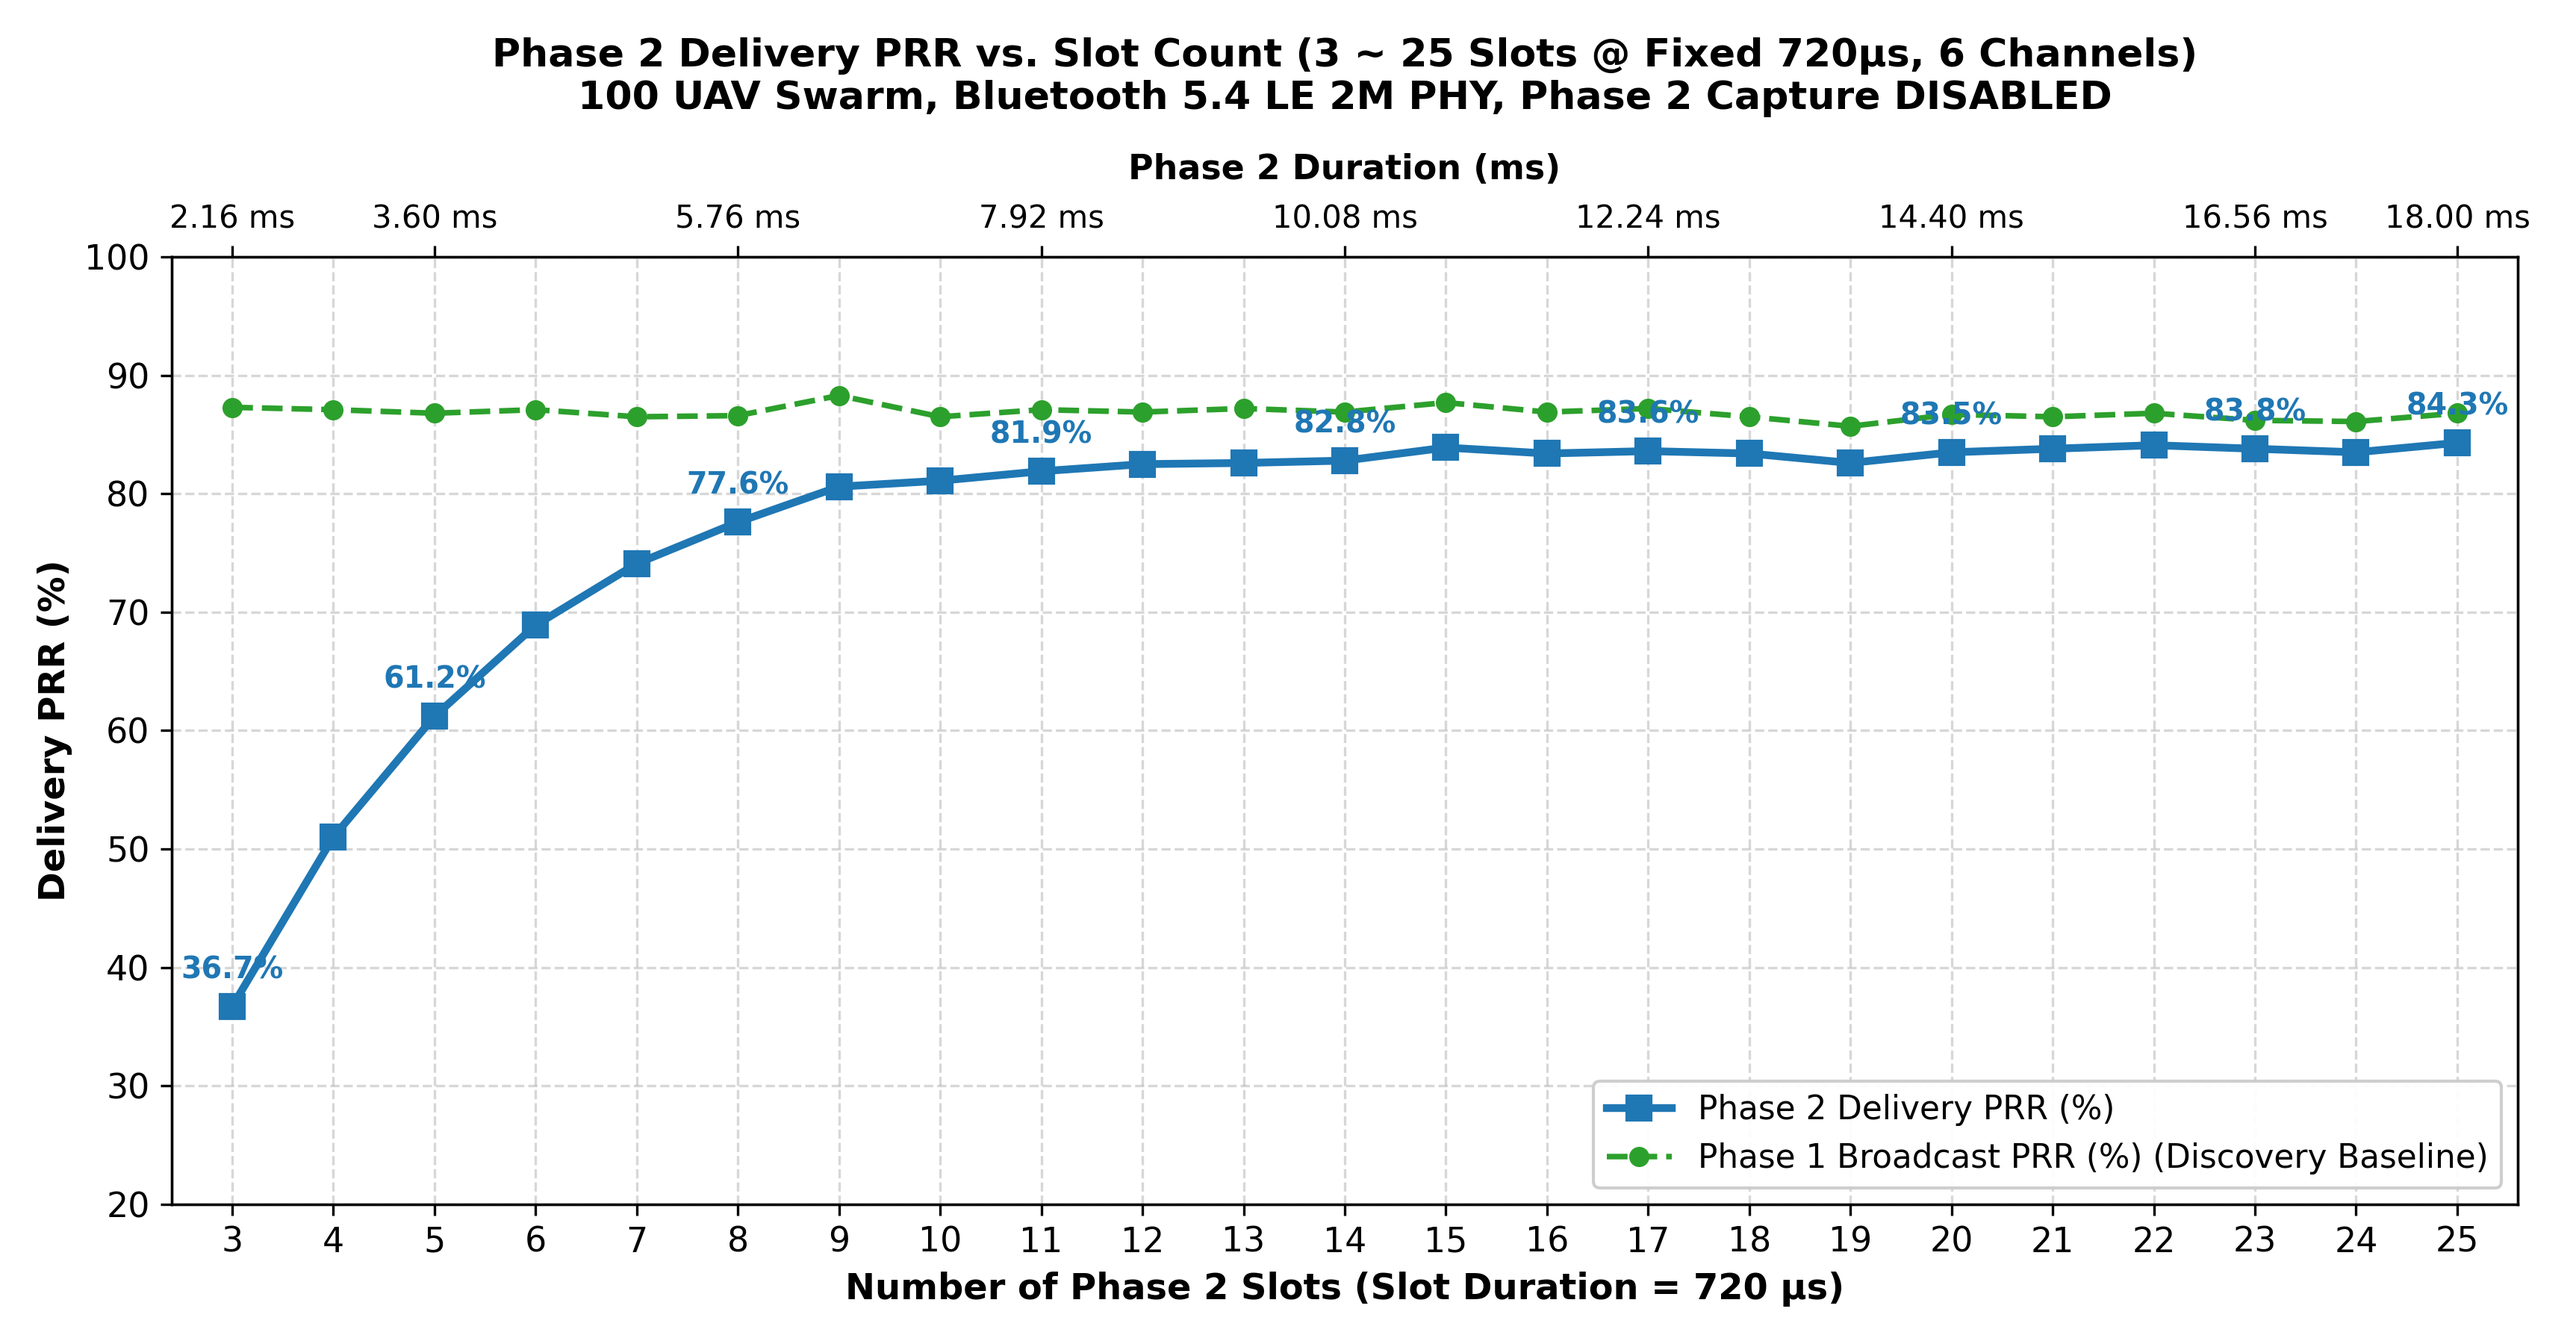
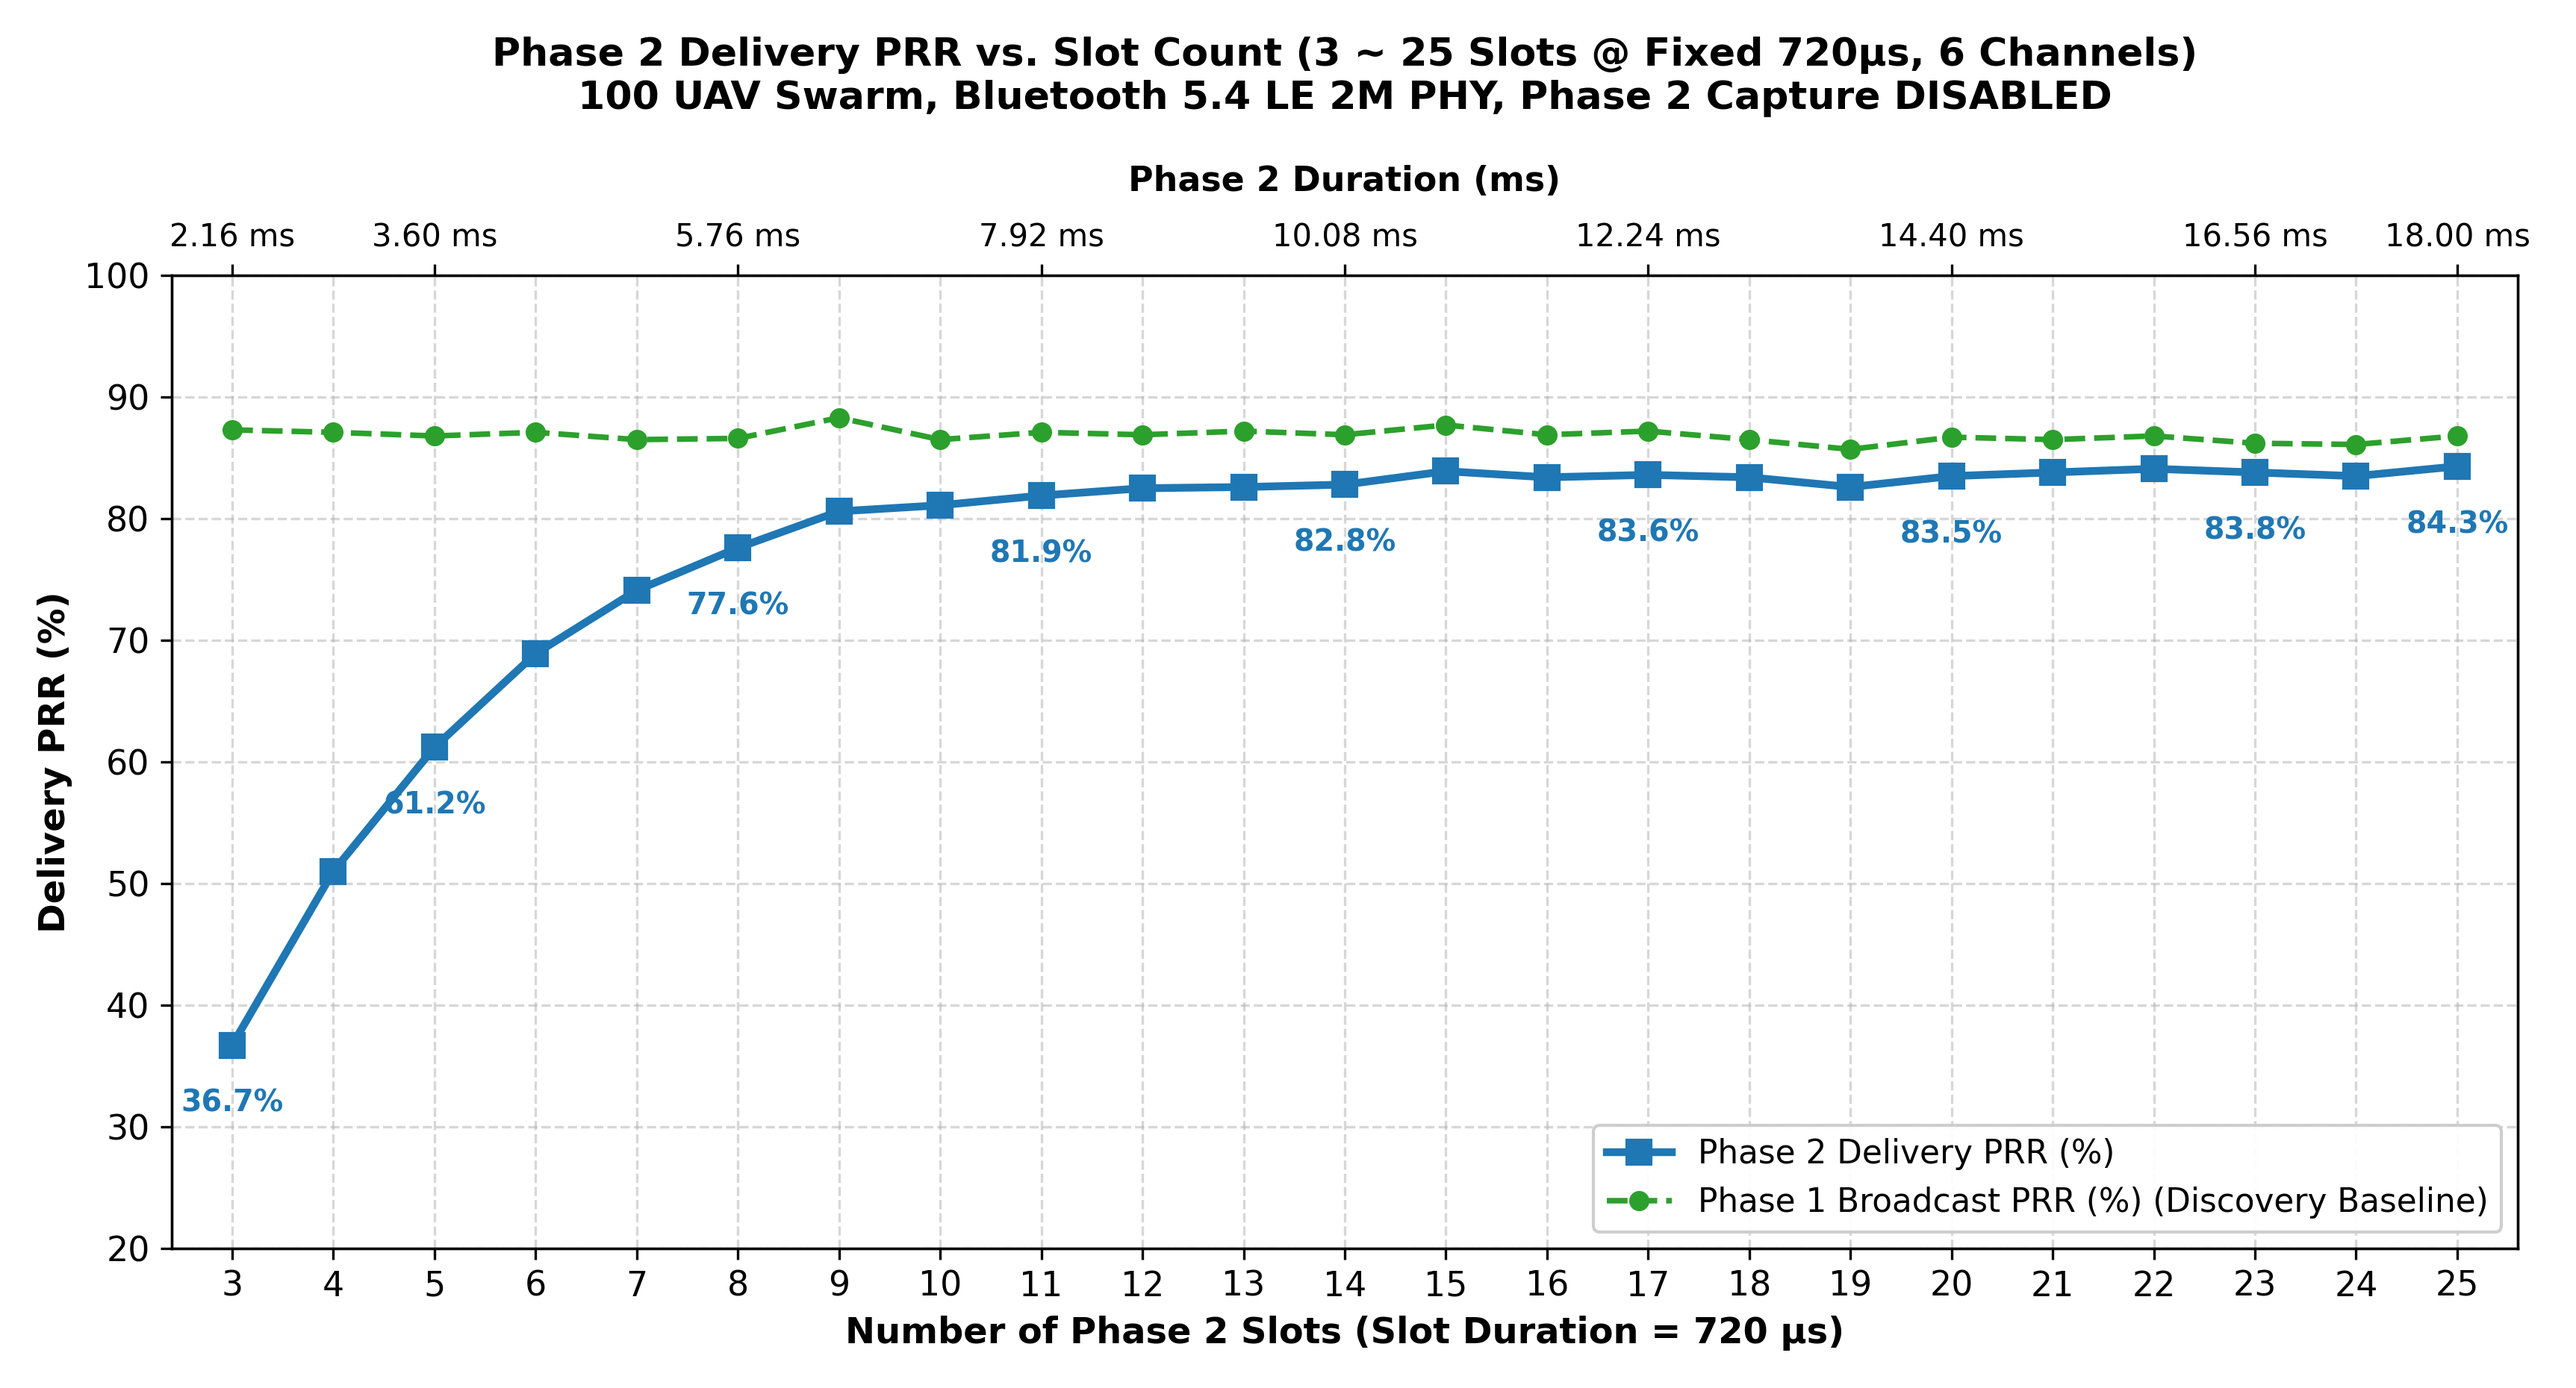
plot: move data annotations below points to avoid P1 overlap, preserve titles and ms labels cleanly

diff --git a/plot_simple_p2_slots_3_25.py b/plot_simple_p2_slots_3_25.py
@@ -1,8 +1,10 @@
 #!/usr/bin/env python3
 """
 Simple & Clean Plot Generator for Phase 2 Slot Count Scaling (3 ~ 25 Slots @ 750µs):
+- Data labels placed BELOW points to prevent overlap with Phase 1 baseline curve
+- Main title (大標) and secondary top axis title (小標: Phase 2 Duration (ms)) properly padded
+- Top axis tick labels show exact duration (e.g. 2.25 ms, 6.00 ms) with NO '(x cells)'
 - No peak star marker (*)
-- No cell counts on top axis: only Phase 2 duration (e.g. 2.25 ms, 6.00 ms)
 - Clean, publication/slide-ready aesthetic
 """
 
@@ -23,22 +25,20 @@ p2_prrs = [35.7, 49.3, 59.8, 67.0, 72.5, 75.6, 78.1, 79.6, 80.7, 81.1, 81.8, 82.
 plt.rcParams['font.family'] = 'DejaVu Sans'
 plt.rcParams['font.size'] = 11
 
-fig, ax1 = plt.subplots(figsize=(11.5, 6), dpi=300)
+fig, ax1 = plt.subplots(figsize=(11.5, 6.2), dpi=300)
 
 # Plot P2 PRR (Main Curve) and P1 PRR (Baseline Reference)
 line1 = ax1.plot(slot_nums, p2_prrs, marker='s', markersize=7.5, linewidth=2.5, color='#1f77b4', label='Phase 2 Delivery PRR (%)')
 line2 = ax1.plot(slot_nums, p1_prrs, marker='o', markersize=5.5, linewidth=1.8, color='#2ca02c', linestyle='--', label='Phase 1 Broadcast PRR (%) (Discovery Baseline)')
 
-# Annotate key data points cleanly (NO star, NO red highlight, uniform clean blue)
+# Annotate key data points BELOW the points (va='top', xytext=(0, -14)) to avoid colliding with P1
 annot_slots = [3, 5, 8, 11, 14, 17, 20, 23, 25]
 for s in annot_slots:
     idx = slot_nums.index(s)
     p = p2_prrs[idx]
-    ax1.annotate(f"{p:.1f}%", (s, p), textcoords="offset points", xytext=(0, 9),
-                 ha='center', fontsize=9.5, fontweight='bold', color='#1f77b4')
+    ax1.annotate(f"{p:.1f}%", (s, p), textcoords="offset points", xytext=(0, -14),
+                 ha='center', va='top', fontsize=9.5, fontweight='bold', color='#1f77b4')
 
-ax1.set_title('Phase 2 Delivery PRR vs. Slot Count (3 ~ 25 Slots @ Fixed 750µs, Zero Cutoff)\n'
-              '100 UAV Swarm, Bluetooth 5.4 LE 2M PHY, P2 Capture DISABLED', fontsize=12.5, fontweight='bold', pad=14)
 ax1.set_xlabel('Number of Phase 2 Slots (Slot Duration = 750 µs)', fontsize=11.5, fontweight='bold')
 ax1.set_ylabel('Delivery PRR (%)', fontsize=11.5, fontweight='bold')
 ax1.set_xticks(slot_nums)
@@ -46,13 +46,18 @@ ax1.set_xlim(2.4, 25.6)
 ax1.set_ylim(20, 100)
 ax1.grid(True, linestyle='--', alpha=0.5)
 
-# Secondary top X-axis showing ONLY Phase 2 Duration (e.g. 2.25 ms, 6.00 ms) - NO cells
+# Secondary top X-axis showing ONLY Phase 2 Duration (e.g. 2.25 ms, 6.00 ms) - NO '(x cells)'
 ax2 = ax1.twiny()
 ax2.set_xlim(ax1.get_xlim())
 tick_slots = [3, 5, 8, 11, 14, 17, 20, 23, 25]
 ax2.set_xticks(tick_slots)
 ax2.set_xticklabels([f"{s * 0.75:.2f} ms" for s in tick_slots], fontsize=10, fontweight='medium')
-ax2.set_xlabel('Phase 2 Duration (ms)', fontsize=11, fontweight='bold', labelpad=8)
+ax2.set_xlabel('Phase 2 Duration (ms)', fontsize=11, fontweight='bold', labelpad=10)
+
+# Main Title placed cleanly above ax2 with proper pad so it never collides with ax2 label
+ax2.set_title('Phase 2 Delivery PRR vs. Slot Count (3 ~ 25 Slots @ Fixed 750µs, Zero Cutoff)\n'
+              '100 UAV Swarm, Bluetooth 5.4 LE 2M PHY, P2 Capture DISABLED',
+              fontsize=12.5, fontweight='bold', pad=18)
 
 lines = line1 + line2
 labels = [l.get_label() for l in lines]

diff --git a/sweep_p2_slots_3_25_at_750us.py b/sweep_p2_slots_3_25_at_750us.py
@@ -279,16 +279,14 @@ fig, ax1 = plt.subplots(figsize=(12, 6.5), dpi=300)
 line1 = ax1.plot(slot_nums, p2_prrs, marker='s', markersize=8, linewidth=2.8, color='#1f77b4', label='Phase 2 Delivery PRR (%)')
 line2 = ax1.plot(slot_nums, p1_prrs, marker='o', markersize=6, linewidth=1.8, color='#2ca02c', linestyle='--', label='Phase 1 Broadcast PRR (%) (Discovery Baseline)')
 
-# Annotate key data points cleanly (NO star, NO red highlight, uniform clean blue)
+# Annotate key data points BELOW the points (va='top', xytext=(0, -14)) to avoid colliding with P1
 annot_slots = [3, 5, 8, 11, 14, 17, 20, 23, 25]
 for s in annot_slots:
     if s in slot_nums:
         idx = slot_nums.index(s)
-        ax1.annotate(f"{p2_prrs[idx]:.1f}%", (s, p2_prrs[idx]), textcoords="offset points", xytext=(0, 9),
-                    ha='center', fontsize=9.5, fontweight='bold', color='#1f77b4')
+        ax1.annotate(f"{p2_prrs[idx]:.1f}%", (s, p2_prrs[idx]), textcoords="offset points", xytext=(0, -14),
+                    ha='center', va='top', fontsize=9.5, fontweight='bold', color='#1f77b4')
 
-ax1.set_title(f'Phase 2 Delivery PRR vs. Slot Count (3 ~ 25 Slots @ Fixed 750µs, Zero Cutoff)\n'
-              f'100 UAV Swarm, Bluetooth 5.4 LE 2M PHY, simTime={sim_time:.1f}s, P2 Capture DISABLED', fontsize=12.5, fontweight='bold', pad=14)
 ax1.set_xlabel('Number of Phase 2 Slots (Slot Duration = 750 µs)', fontsize=11.5, fontweight='bold')
 ax1.set_ylabel('Delivery PRR (%)', fontsize=11.5, fontweight='bold')
 ax1.set_xticks(slot_nums)
@@ -302,7 +300,12 @@ ax2.set_xlim(ax1.get_xlim())
 tick_slots = [3, 5, 8, 11, 14, 17, 20, 23, 25]
 ax2.set_xticks(tick_slots)
 ax2.set_xticklabels([f"{s * slot_us / 1000.0:.2f} ms" for s in tick_slots], fontsize=10, fontweight='medium')
-ax2.set_xlabel('Phase 2 Duration (ms)', fontsize=11, fontweight='bold', labelpad=8)
+ax2.set_xlabel('Phase 2 Duration (ms)', fontsize=11, fontweight='bold', labelpad=10)
+
+# Main Title placed cleanly above ax2 with proper pad so it never collides with ax2 label
+ax2.set_title(f'Phase 2 Delivery PRR vs. Slot Count (3 ~ 25 Slots @ Fixed 750µs, Zero Cutoff)\n'
+              f'100 UAV Swarm, Bluetooth 5.4 LE 2M PHY, simTime={sim_time:.1f}s, P2 Capture DISABLED',
+              fontsize=12.5, fontweight='bold', pad=18)
 
 lines = line1 + line2
 labels = [l.get_label() for l in lines]

diff --git a/sweep_p2_slots_3_25_at_720us.py b/sweep_p2_slots_3_25_at_720us.py
@@ -274,16 +274,14 @@ fig, ax1 = plt.subplots(figsize=(12, 6.5), dpi=300)
 line1 = ax1.plot(slot_nums, p2_prrs, marker='s', markersize=8, linewidth=2.8, color='#1f77b4', label='Phase 2 Delivery PRR (%)')
 line2 = ax1.plot(slot_nums, p1_prrs, marker='o', markersize=6, linewidth=1.8, color='#2ca02c', linestyle='--', label='Phase 1 Broadcast PRR (%) (Ceiling)')
 
-# Annotate key data points cleanly (NO star, NO red highlight, uniform clean blue)
+# Annotate key data points BELOW the points (va='top', xytext=(0, -14)) to avoid colliding with P1
 annot_slots = [3, 5, 8, 11, 14, 17, 20, 23, 25]
 for s in annot_slots:
     if s in slot_nums:
         idx = slot_nums.index(s)
-        ax1.annotate(f"{p2_prrs[idx]:.1f}%", (s, p2_prrs[idx]), textcoords="offset points", xytext=(0, 9),
-                    ha='center', fontsize=9.5, fontweight='bold', color='#1f77b4')
+        ax1.annotate(f"{p2_prrs[idx]:.1f}%", (s, p2_prrs[idx]), textcoords="offset points", xytext=(0, -14),
+                    ha='center', va='top', fontsize=9.5, fontweight='bold', color='#1f77b4')
 
-ax1.set_title('Phase 2 Delivery PRR vs. Slot Count (3 ~ 25 Slots @ Fixed 720µs, 6 Channels)\n'
-              '100 UAV Swarm, Bluetooth 5.4 LE 2M PHY, Phase 2 Capture DISABLED', fontsize=12.5, fontweight='bold', pad=14)
 ax1.set_xlabel('Number of Phase 2 Slots (Slot Duration = 720 µs)', fontsize=11.5, fontweight='bold')
 ax1.set_ylabel('Delivery PRR (%)', fontsize=11.5, fontweight='bold')
 ax1.set_xticks(slot_nums)
@@ -297,7 +295,12 @@ ax2.set_xlim(ax1.get_xlim())
 tick_slots = [3, 5, 8, 11, 14, 17, 20, 23, 25]
 ax2.set_xticks(tick_slots)
 ax2.set_xticklabels([f"{s * slot_us / 1000.0:.2f} ms" for s in tick_slots], fontsize=10, fontweight='medium')
-ax2.set_xlabel('Phase 2 Duration (ms)', fontsize=11, fontweight='bold', labelpad=8)
+ax2.set_xlabel('Phase 2 Duration (ms)', fontsize=11, fontweight='bold', labelpad=10)
+
+# Main Title placed cleanly above ax2 with proper pad so it never collides with ax2 label
+ax2.set_title('Phase 2 Delivery PRR vs. Slot Count (3 ~ 25 Slots @ Fixed 720µs, 6 Channels)\n'
+              '100 UAV Swarm, Bluetooth 5.4 LE 2M PHY, Phase 2 Capture DISABLED',
+              fontsize=12.5, fontweight='bold', pad=18)
 
 lines = line1 + line2
 labels = [l.get_label() for l in lines]
